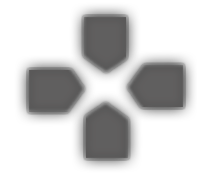
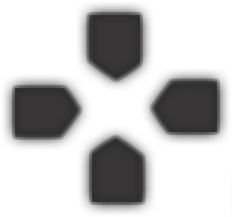
Continuação da renovaçao do controller

diff --git a/bomber-desk/src/com/bomber/input/InputPlayingState.java b/bomber-desk/src/com/bomber/input/InputPlayingState.java
@@ -40,8 +40,8 @@ public class InputPlayingState extends Input {
 	private static short mLastDirectionalInput = -1;
 
 	
-	private static final Vector2 mCenter = new Vector2(100, 85);
-	private Vector2 mTouchingPoint;
+	private static final Vector2 mCenter = new Vector2(115, 100);
+	private Vector2 mTouchingPointXY;
 	private float mTouchingAngle;
 	private GameWorld mGameWorld;
 	private Player mLocalPlayer;
@@ -57,7 +57,7 @@ public class InputPlayingState extends Input {
 
 		mGameWorld = _gameState.mGame.mWorld;
 		
-		mTouchingPoint = new Vector2();
+		mTouchingPointXY = new Vector2();
 	}
 
 	@Override
@@ -84,33 +84,33 @@ public class InputPlayingState extends Input {
 				mBombPointerIdx = -1;
 				return;
 			}
-
-
-
-
-			mTouchingPoint.set(mTouchPoint.x,mTouchPoint.y);
-			mTouchingPoint.sub(mCenter);			
-			float mTouchingAngle = mTouchingPoint.angle();
 			
-			if(mTouchingAngle>=0 && mTouchingAngle < 45  || mTouchingAngle<=360 && mTouchingAngle> 315)
-			{//RIGHT
-                mDirectionsPointerIdx = p - 1;
-				parseInputZone(INPUT_RIGHT);
-			}else if(mTouchingAngle>=45 && mTouchingAngle < 135)
-			{//UP
-                mDirectionsPointerIdx = p - 1;
-				parseInputZone(INPUT_UP);
-			}else if(mTouchingAngle >= 135 && mTouchingAngle < 225)
-			{//LEFT
-                mDirectionsPointerIdx = p - 1;
-				parseInputZone(INPUT_LEFT);
-			}else if(mTouchingAngle >= 225 && mTouchingAngle < 315)
-			{//DOWN
-                mDirectionsPointerIdx = p - 1;
-				parseInputZone(INPUT_DOWN);
+			if(mTouchPoint.x <= 400 && mTouchPoint.y <= 300)
+			{ //limita a zona de movimento direccional
+				
+				mTouchingPointXY.set(mTouchPoint.x,mTouchPoint.y);
+				mTouchingPointXY.sub(mCenter);			
+				mTouchingAngle = mTouchingPointXY.angle();
+				
+				if(mTouchingAngle>=0 && mTouchingAngle < 45  || mTouchingAngle<=360 && mTouchingAngle> 315)
+				{//RIGHT
+	                mDirectionsPointerIdx = p - 1;
+					parseInputZone(INPUT_RIGHT);
+				}else if(mTouchingAngle>=45 && mTouchingAngle < 135)
+				{//UP
+	                mDirectionsPointerIdx = p - 1;
+					parseInputZone(INPUT_UP);
+				}else if(mTouchingAngle >= 135 && mTouchingAngle < 225)
+				{//LEFT
+	                mDirectionsPointerIdx = p - 1;
+					parseInputZone(INPUT_LEFT);
+				}else if(mTouchingAngle >= 225 && mTouchingAngle < 315)
+				{//DOWN
+	                mDirectionsPointerIdx = p - 1;
+					parseInputZone(INPUT_DOWN);
+				}
+			
 			}
-			
-			
 			
 			if (!mJustPlacedBomb && mInputZones[INPUT_BOMB].contains(mTouchPoint.x, mTouchPoint.y))
 			{
@@ -132,6 +132,7 @@ public class InputPlayingState extends Input {
 			mJustPlacedBomb = false;
 			mBombPointerIdx = -1;
 		}
+		
 	}
 
 	@Override
@@ -174,18 +175,18 @@ public class InputPlayingState extends Input {
 		if (!mLocalPlayer.mAcceptPlayerInput)
 			return;
 
-		if (Gdx.input.isKeyPressed(Keys.LEFT))
+		if (Gdx.input.isKeyPressed(Keys.LEFT) || Gdx.input.isKeyPressed(Keys.A) )
 			mLocalPlayer.changeDirection(Directions.LEFT);
-		else if (Gdx.input.isKeyPressed(Keys.RIGHT))
+		else if (Gdx.input.isKeyPressed(Keys.RIGHT) || Gdx.input.isKeyPressed(Keys.D))
 			mLocalPlayer.changeDirection(Directions.RIGHT);
-		else if (Gdx.input.isKeyPressed(Keys.DOWN))
+		else if (Gdx.input.isKeyPressed(Keys.DOWN) || Gdx.input.isKeyPressed(Keys.S))
 			mLocalPlayer.changeDirection(Directions.DOWN);
-		else if (Gdx.input.isKeyPressed(Keys.UP))
+		else if (Gdx.input.isKeyPressed(Keys.UP) || Gdx.input.isKeyPressed(Keys.W))
 			mLocalPlayer.changeDirection(Directions.UP);
 		else
 			mLocalPlayer.stop();
 
-		if (Gdx.input.isKeyPressed(Keys.SPACE))
+		if (Gdx.input.isKeyPressed(Keys.SPACE) || Gdx.input.isKeyPressed(Keys.BUTTON_X) || Gdx.input.isKeyPressed(Keys.BUTTON_CIRCLE)  )
 		{
 			if (!mJustPlacedBomb)
 			{

diff --git a/bomber-desk/src/com/bomber/gamestates/GameStatePlaying.java b/bomber-desk/src/com/bomber/gamestates/GameStatePlaying.java
@@ -104,7 +104,7 @@ public class GameStatePlaying extends GameState {
 		drawActiveBonus(player);
 		
 		
-		mBatcher.draw(GfxAssets.mTrophy[0], 100, 85,20,20);
+		mBatcher.draw(GfxAssets.mTrophy[0], 115, 100,20,20);
 	}
 
 	private void drawAcummulatedBonus(BitmapFont _font, Player _player)

diff --git a/bomber-desk/src/com/bomber/input/Input.java b/bomber-desk/src/com/bomber/input/Input.java
@@ -22,10 +22,10 @@ public abstract class Input {
 	
 	public final void update()
 	{
-		if (Gdx.app.getType() != Application.ApplicationType.Android)
-			parseKeyboardInput();
-		else
 			parseTouchInput();
+			
+			//parseKeyboardInput();
+
 	}
 	
 	
